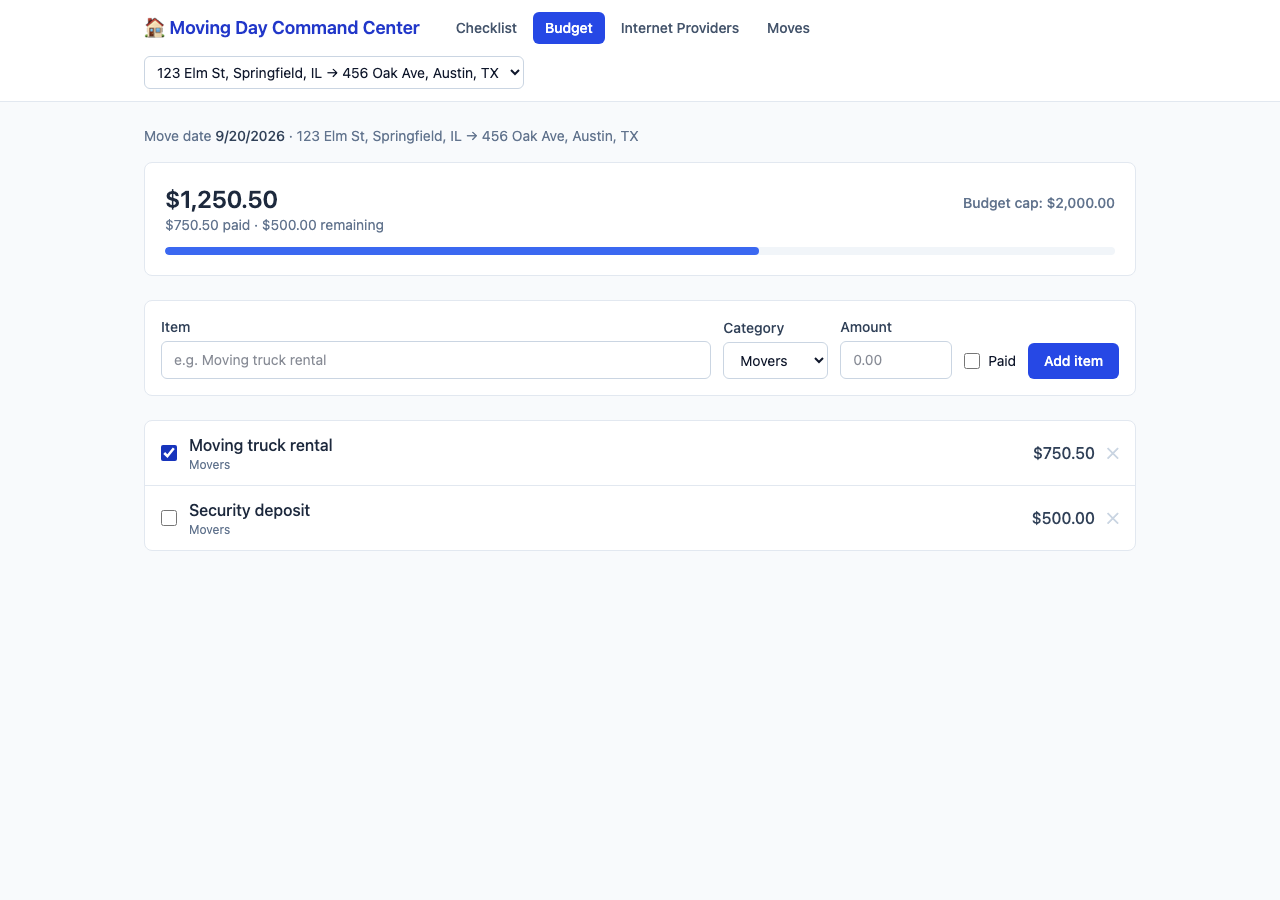
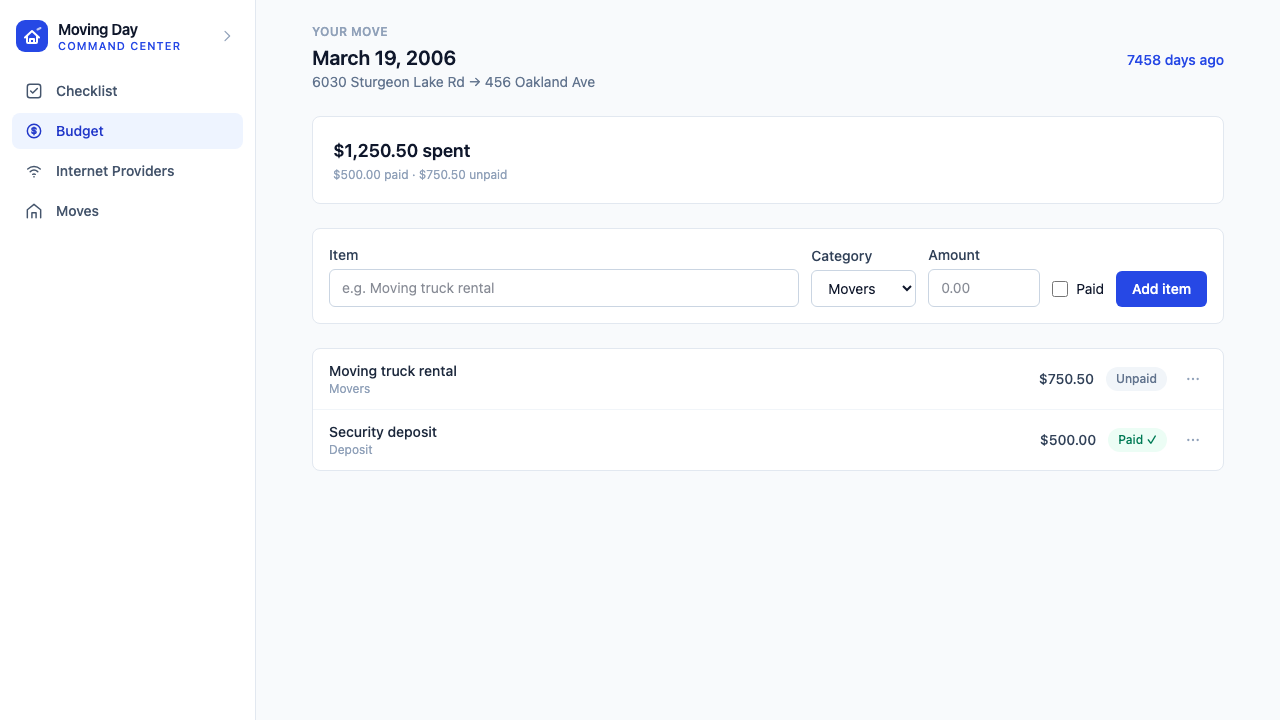
Fix address title-casing and refresh README screenshots
titleCaseAddress's first pass force-uppercased any bare 2-letter word,
which fixed state codes (dc -> DC) but broke 2-letter street suffixes
(Rd -> RD). Replaced with an explicit allow-list (directionals + US state
codes) instead of a length heuristic. Caught by screenshotting the
provider-lookup and moves-header output side by side.

Screenshots in docs/screenshots/ (and embedded in the README) were still
showing the old top-nav layout from before the sidebar redesign — replaced
with fresh captures of the current UI.

diff --git a/client/src/lib/formatDate.js b/client/src/lib/formatDate.js
@@ -39,18 +39,27 @@ export function formatCountdown(isoString) {
 }
 
 // Display-only normalization — "456 oakland ave" -> "456 Oakland Ave". Never
-// mutates what's stored, just how it's shown; keeps common directionals
-// (NW/SE/...) upper-case instead of title-casing them into "Nw"/"Se".
-const DIRECTIONALS = new Set(['N', 'S', 'E', 'W', 'NE', 'NW', 'SE', 'SW']);
+// mutates what's stored, just how it's shown. An explicit allow-list (not
+// "any 2-letter word") stays upper-cased — directionals and US state codes
+// read wrong as "Nw"/"Dc", but plenty of legitimate street suffixes are
+// also exactly two letters (Rd, St, Ln, Ct) and must NOT be forced upper.
+const KEEP_UPPERCASE = new Set([
+  'N', 'S', 'E', 'W', 'NE', 'NW', 'SE', 'SW',
+  'AL', 'AK', 'AZ', 'AR', 'CA', 'CO', 'CT', 'DE', 'FL', 'GA', 'HI', 'ID',
+  'IL', 'IN', 'IA', 'KS', 'KY', 'LA', 'ME', 'MD', 'MA', 'MI', 'MN', 'MS',
+  'MO', 'MT', 'NE', 'NV', 'NH', 'NJ', 'NM', 'NY', 'NC', 'ND', 'OH', 'OK',
+  'OR', 'PA', 'RI', 'SC', 'SD', 'TN', 'TX', 'UT', 'VT', 'VA', 'WA', 'WV',
+  'WI', 'WY', 'DC', 'PR',
+]);
 
 export function titleCaseAddress(address) {
   if (!address) return '';
   return address
     .split(' ')
     .map((word) => {
-      const bare = word.replace(/[.,]/g, '');
-      if (DIRECTIONALS.has(bare.toUpperCase())) return word.toUpperCase();
       if (!word) return word;
+      const bare = word.replace(/[.,]/g, '');
+      if (KEEP_UPPERCASE.has(bare.toUpperCase())) return word.toUpperCase();
       return word[0].toUpperCase() + word.slice(1).toLowerCase();
     })
     .join(' ');
